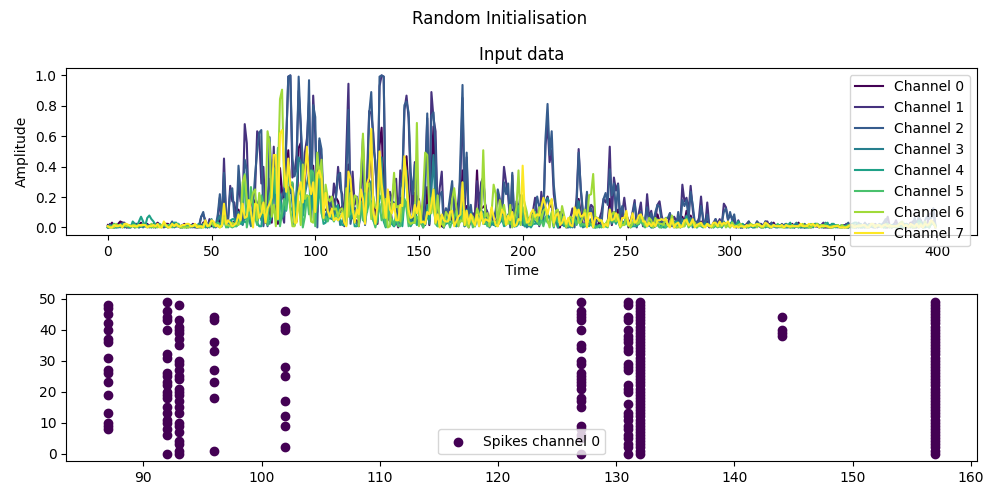
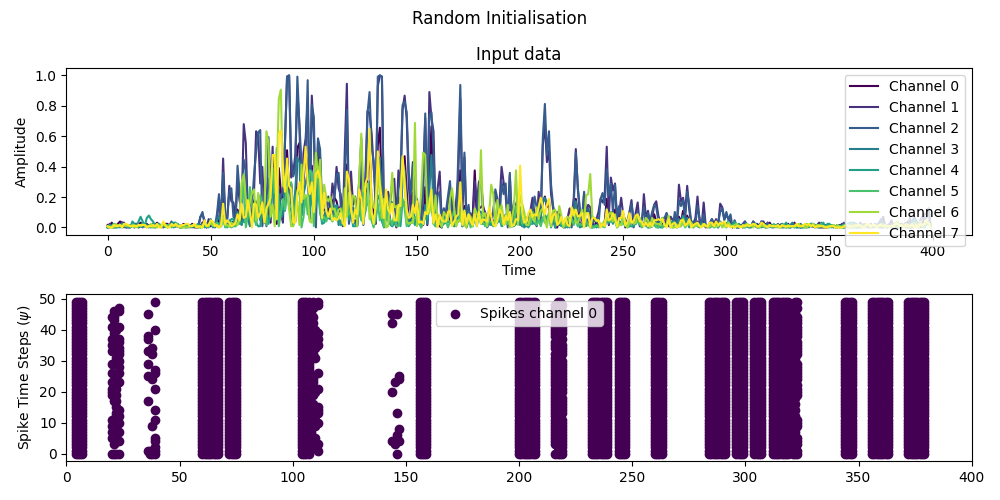
Roshambo experiments MI

diff --git a/roshambo.py b/roshambo.py
@@ -6,7 +6,7 @@ import time
 
 from snntorch import spikegen
 
-from STAL.LAST import SpikeThresholdAdaptiveLearning
+from STAL.LAST import LearningAdaptiveSpikeThresholds
 from STAL_loss.only_mi_loss import MILoss as DefaultLoss
 
 def load_data_roshambo():
@@ -15,7 +15,6 @@ def load_data_roshambo():
     y = np.load("roshambo/y_roshambo.npy")
     
     X = np.array(X, dtype=np.float32)
-    print(X.min(), X.max()) # -128 to 127
     X = np.abs(X)
     X = X / X.max()
             
@@ -27,14 +26,16 @@ X, y = load_data_roshambo()
 train_X, test_X, train_y, test_y  = train_test_split(X, y, test_size=0.2, random_state=42)
 train_X, val_X, train_y, val_y  = train_test_split(train_X, train_y, test_size=0.2, random_state=42)
 
+print(train_X.size(0), val_X.size(0), test_X.size(0))
+
 n_samples, omega, c = train_X.size()
 
 psi = 50
-l1_sz = 0 #omega // 2
-l2_sz = 0 #omega // 2
+l1_sz = 100 #omega // 2
+l2_sz = 100 #omega // 2
 drop_p = 0.
 
-STAL = SpikeThresholdAdaptiveLearning(omega, psi, c, l1_sz, l2_sz, drop_p)
+STAL = LearningAdaptiveSpikeThresholds(omega, psi, c, l1_sz, l2_sz, drop_p)
 STAL.print_learnable_params()
 
 batch_size = 64
@@ -53,8 +54,6 @@ b = B[0]
 b = b[:, 0, :]
 pixels, spikes = np.where(b == 1)
 
-print(pixels, spikes)
-
 colors = plt.cm.viridis(np.linspace(0, 1, c))
 
 fig, ax = plt.subplots(2, 1, figsize=(10, 5)) 
@@ -65,7 +64,9 @@ ax[0].set_title("Input data")
 ax[0].set_xlabel("Time")
 ax[0].set_ylabel("Amplitude")
 
-ax[1].scatter(pixels, spikes, c=colors[0], label="Spikes channel 0")
+ax[1].scatter(pixels, spikes, color=colors[0], label="Spikes channel 0")
+ax[1].set_xlim(0, omega)
+ax[1].set_ylabel(r"Spike Time Steps ($\psi$)")
 ax[1].legend()
 
 plt.suptitle("Random Initialisation")
@@ -78,7 +79,7 @@ plt.close()
 # --------------------------------
 
 default_loss = DefaultLoss()
-optimizer = torch.optim.AdamW(STAL.parameters(), lr=0.01)
+optimizer = torch.optim.AdamW(STAL.parameters(), lr=0.1)
 
 n_epochs = 20
 STAL.to(device)
@@ -92,7 +93,10 @@ val_spiketrains = []
 for epoch in range(n_epochs):
     e = []
     for i in range(0, len(train_X), batch_size):
-        x_train = train_X[i:i+batch_size].to(device)
+        bsz = max(0, min(batch_size, len(test_X) - i))
+        if bsz == 0:
+            break
+        x_train = train_X[i:i+bsz].to(device)
         optimizer.zero_grad()
         h, Z1, Z2 = STAL(x_train)
         if epoch == n_epochs - 1:
@@ -108,7 +112,10 @@ for epoch in range(n_epochs):
     e = []
     with torch.no_grad():
         for i in range(0, len(val_X), batch_size):
-            x_val = val_X[i:i+batch_size].to(device)
+            bsz = max(0, min(batch_size, len(test_X) - i))
+            if bsz == 0:
+                break
+            x_val = val_X[i:i+bsz].to(device)
             h, Z1, Z2 = STAL(x_val)
             if epoch == n_epochs - 1:
                 spiketrain = (h > theta).float()
@@ -122,7 +129,10 @@ for epoch in range(n_epochs):
 test_loss = []
 test_spiketrains = []
 for i in range(0, len(test_X), batch_size):
-    x_test = test_X[:batch_size].to(device)
+    bsz = max(0, min(batch_size, len(test_X) - i))
+    if bsz == 0:
+        break
+    x_test = test_X[:bsz].to(device)
     h, Z1, Z2 = STAL(x_test)
     spiketrain = (h > theta).float()
     test_spiketrains = np.append(test_spiketrains, spiketrain.detach().cpu().numpy())
@@ -178,7 +188,9 @@ ax[0].set_title("Input data")
 ax[0].set_xlabel("Time")
 ax[0].set_ylabel("Amplitude")
 
-ax[1].scatter(pixels, spikes, c=colors[0], label="Spikes channel 0")
+ax[1].scatter(pixels, spikes, color=colors[0], label="Spikes channel 0")
+ax[1].set_xlim(0, omega)
+ax[1].set_ylabel(r"Spike Time Steps ($\psi$)")
 ax[1].legend()
 
 plt.suptitle("Post Training")
@@ -194,8 +206,6 @@ B_rate_tr = spikegen.rate(train_X, psi).permute(1, 2, 3, 0)
 B_rate_val = spikegen.rate(val_X, psi).permute(1, 2, 3, 0)
 B_rate_ts = spikegen.rate(test_X, psi).permute(1, 2, 3, 0)
 
-print(B_rate_tr.shape, B_STAL_tr.shape)
-
 b = B_rate_ts[0]
 # bsz, omega, c, psi
 
@@ -207,13 +217,15 @@ colors = plt.cm.viridis(np.linspace(0, 1, c))
 
 fig, ax = plt.subplots(2, 1, figsize=(10, 5)) 
 for channel in range(c):
-    ax[0].plot(x[0, :, channel].numpy(), c=colors[channel], label=f"Channel {channel}")
+    ax[0].plot(x[0, :, channel].numpy(), color=colors[channel], label=f"Channel {channel}")
 ax[0].legend()
 ax[0].set_title("Input data")
 ax[0].set_xlabel("Time")
 ax[0].set_ylabel("Amplitude")
 
-ax[1].scatter(pixels, spikes, c=colors[0], label="Spikes channel 0")
+ax[1].scatter(pixels, spikes, color=colors[0], label="Spikes channel 0")
+ax[1].set_xlim(0, omega)
+ax[1].set_ylabel(r"Spike Time Steps ($\psi$)")
 ax[1].legend()
 
 plt.suptitle("Rate Coding")
@@ -221,3 +233,43 @@ plt.suptitle("Rate Coding")
 plt.tight_layout()
 plt.savefig("roshambo/roshambo_rate.png")
 plt.close()
+
+## Compare the spike trains
+# - Mutual Information
+# - Spike Density
+
+# MI
+from STAL_loss.only_mi_loss import compute_mutual_information
+
+B_STAL_ts = torch.tensor(B_STAL_ts)
+
+def weight(B):
+    n_samples = B.shape[0]
+    n_timesteps = B.shape[1]
+    n_channels = B.shape[2]
+    
+    h_unroll = B.reshape(n_samples, n_timesteps, n_channels, -1)
+    
+    n_spikes_per_timestep = h_unroll.shape[3]
+    weights = torch.arange(1, n_spikes_per_timestep + 1, dtype=h_unroll.dtype, device=h_unroll.device) * 10
+    # Reverse the weights, so that the first spike is the most important
+    weights = torch.flip(weights, [0])
+    h_weighted = torch.sum(h_unroll * weights, dim=3)
+    
+    return h_weighted
+
+MI_STAL_ts = compute_mutual_information(test_X, weight(B_STAL_ts))
+MI_rate_ts = compute_mutual_information(test_X, weight(B_rate_ts))
+
+print(f"MI STAL: {MI_STAL_ts:.3f}")
+print(f"MI Rate: {MI_rate_ts:.3f}")
+
+def spike_density(B):
+    n_spikes = B.sum(dim=3) / B.shape[3] 
+    return n_spikes.mean()
+
+dens_STAL_ts = spike_density(B_STAL_ts)
+dens_rate_ts = spike_density(B_rate_ts)
+
+print(f"Spike Density STAL: {dens_STAL_ts:.3f}")
+print(f"Spike Density Rate: {dens_rate_ts:.3f}")

diff --git a/STAL_loss/only_mi_loss.py b/STAL_loss/only_mi_loss.py
@@ -12,10 +12,10 @@ class MILoss(torch.nn.Module):
 
     def forward(self, h, X, Z1, Z2):
         """
-        W: torch.Tensor[batch, omega, psi], encoded 'spiketrain', not binarized yet (\hat{B} in the paper)
-        X: torch.Tensor[batch, omega, psi], input signal (\hat{X} in the paper)
-        Z1: torch.Tensor[batch, omega, psi], representation of Layer 1
-        Z2: torch.Tensor[batch, omega, psi], representation of Layer 2
+        h: torch.Tensor[batch, omega * c * psi], encoded 'spiketrain', not binarized yet (\hat{B} in the paper)
+        X: torch.Tensor[batch, omega, c, psi], input signal (\hat{X} in the paper)
+        Z1: torch.Tensor[batch, omega * c * psi], representation of Layer 1
+        Z2: torch.Tensor[batch, omega * c * psi], representation of Layer 2
         """
         assert isinstance(X, torch.Tensor) and isinstance(h, torch.Tensor), "X and h must be torch tensors."
         
@@ -26,7 +26,7 @@ class MILoss(torch.nn.Module):
         h_unroll = h.reshape(n_samples, n_timesteps, n_channels, -1)
         
         n_spikes_per_timestep = h_unroll.shape[3]
-        weights = torch.arange(1, n_spikes_per_timestep + 1, dtype=h_unroll.dtype, device=h_unroll.device) * 10
+        weights = torch.arange(1, n_spikes_per_timestep + 1, dtype=h_unroll.dtype, device=h_unroll.device) * 100
         # Reverse the weights, so that the first spike is the most important
         weights = torch.flip(weights, [0])
         h_weighted = torch.sum(h_unroll * weights, dim=3)
@@ -34,17 +34,17 @@ class MILoss(torch.nn.Module):
         mi = compute_mutual_information(X, h_weighted)
        
         MI = mi
-        loss = -(MI)
+        loss = -MI
 
         return loss
     
 def compute_mutual_information(X, Y):
     """ 
-    Computes the mutual information between two random variables X and Z.
+    Computes the mutual information between two random variables X and Y.
     All computations are done using torch operations, to keep the gradient flow.
     """
     if X.shape[0] != Y.shape[0]:
-        raise ValueError("X and W must have the same number of samples.")
+        raise ValueError("X and Y must have the same number of samples.")
     
     if X.ndim == 3:
         if X.size(2) == 1:

diff --git a/train.py b/train.py
@@ -5,7 +5,7 @@ from sklearn.model_selection import train_test_split
 import time
 
 from mnist.load_mnist import load_mnist
-from STAL.STAL import SpikeThresholdAdaptiveLearning
+from STAL.LAST import SpikeThresholdAdaptiveLearning
 # from STAL_loss.loss_low_sp import DefaultLoss
 from STAL_loss.default_loss import DefaultLoss
 
